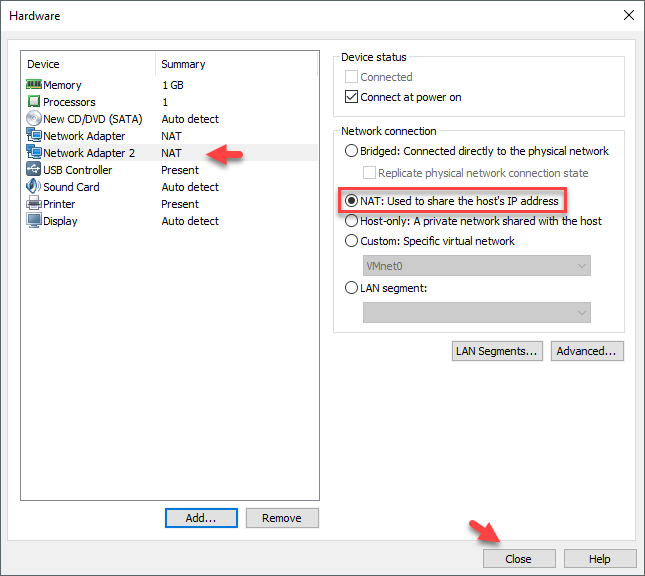
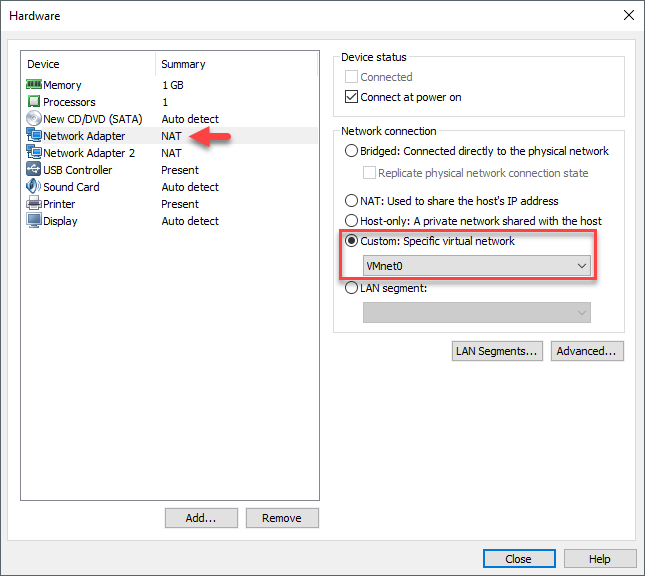
q

diff --git a/Pracctica 1/README.md b/Pracctica 1/README.md
@@ -26,16 +26,18 @@ Ahora asignamos el tamaño del disco duro 20 GB, y seleccionamos la opción ***S
 
 ![img](https://github.com/McMayXIII/Servidores-Web-Altas-Prestaciones/blob/master/Pracctica%201/image/img6.png)
 
-Ahora insertamos otra tarjeta de red para que la maquina se comunique con el exterior sin problemas.
+En este apartado pasaremos a la configuración de red, donde tendremos dos tarjetas una para conectar las maquinas virtuales internamente entre si. Que para este caso trendra el nombre de ***VMnet0***.
 
 ![img](https://github.com/McMayXIII/Servidores-Web-Altas-Prestaciones/blob/master/Pracctica%201/image/img7.png)
 
-
+Ahora configuramos la otra tarjeta de red para que la maquina se comunique con el exterior sin problemas.
 
 ![img](https://github.com/McMayXIII/Servidores-Web-Altas-Prestaciones/blob/master/Pracctica%201/image/img8.png)
 
-a
+Y por ultimo añadimos la ISO de ***Ubuntu Server 16.04 LTS***
 
 ![img](https://github.com/McMayXIII/Servidores-Web-Altas-Prestaciones/blob/master/Pracctica%201/image/img9.png)
 
-a
+Una vez llegados a este punto tenemos la maquina virtual preparada para poder intalar el sistema operativo.
+
+## Instalando Ubuntu Server 16.04 LTS 64bits
